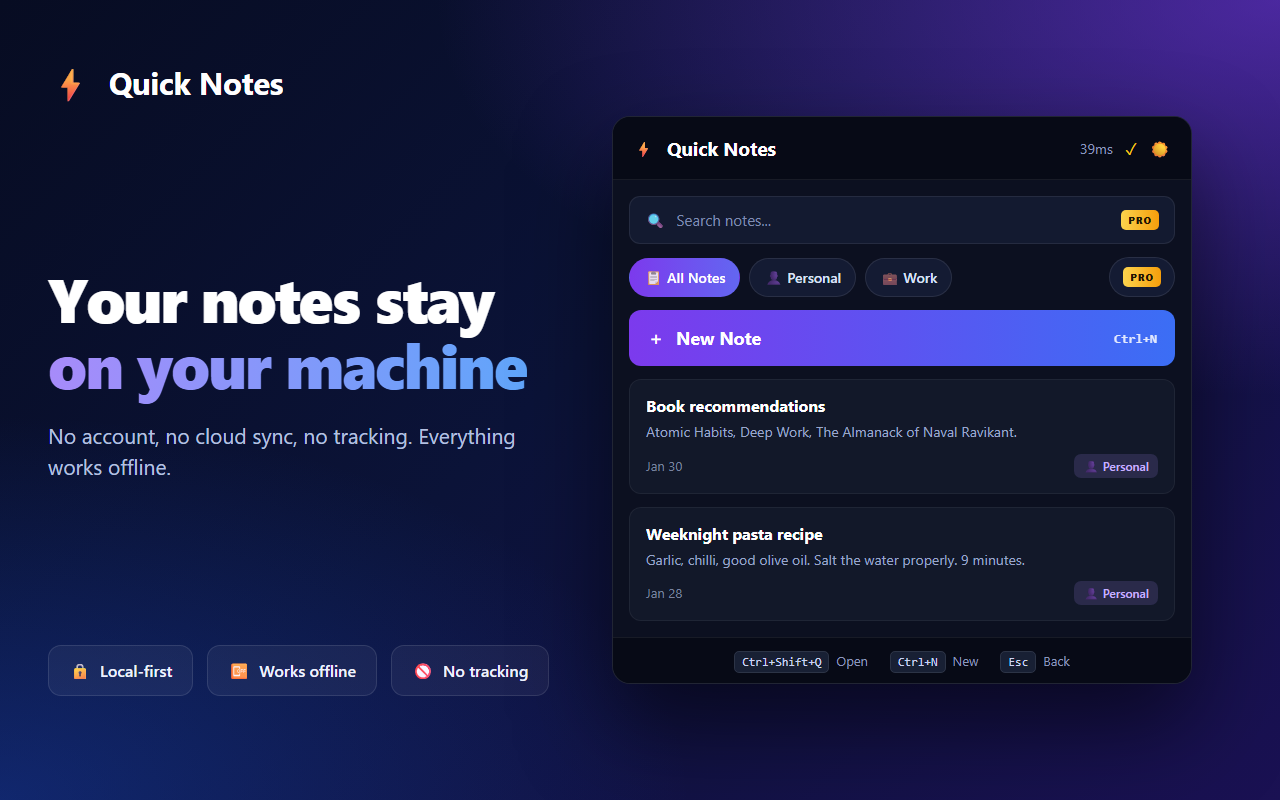
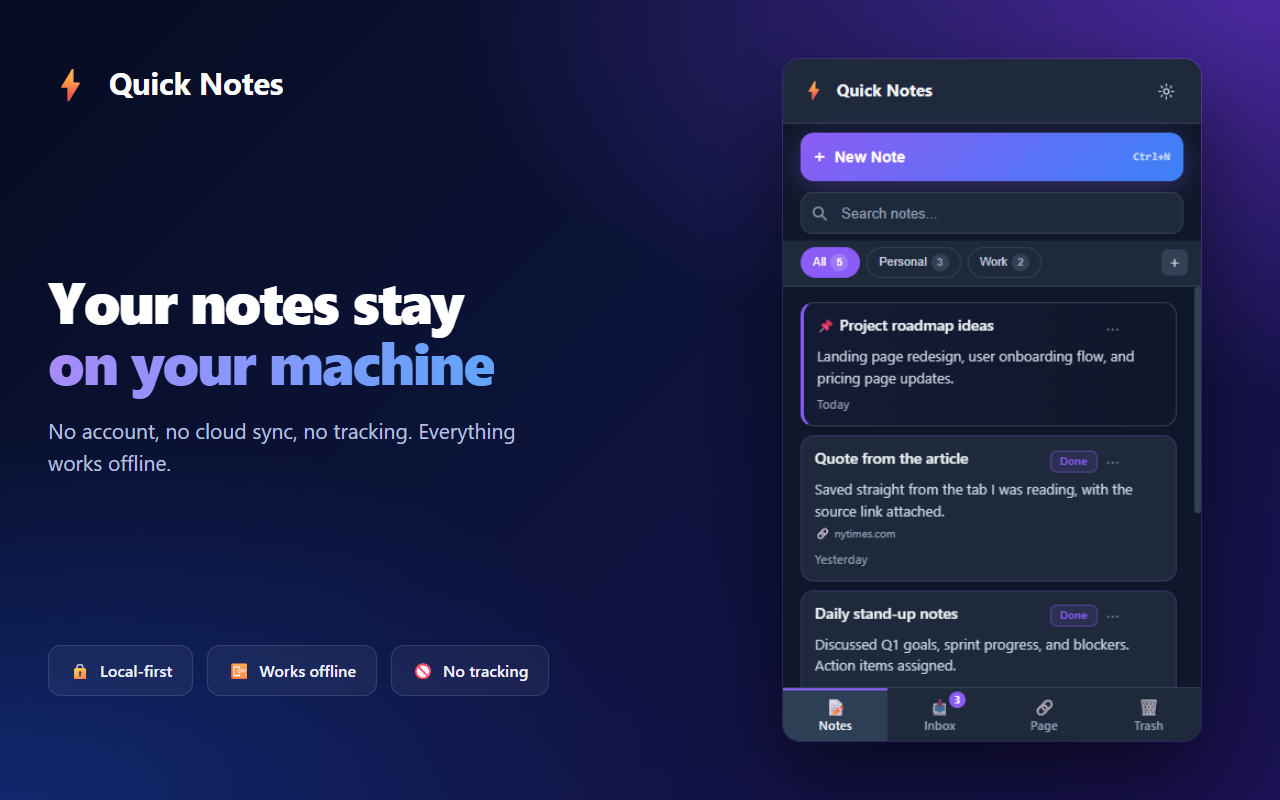
fix(landing): show the current interface, tab bar included
The five images on the landing page and the OpenGraph card were the previous
generated set, taken before the tab bar existed. Anyone arriving from a shared
link saw an interface the extension no longer has.

Replaced with the captures of the running 1.8.0 popup, so the site and the store
listings now show the same product from the same source. The caption says the
shots are captured rather than "real extension screens", which was a claim the
old HTML redraws could not honestly make.

Changed region(s): [[0.4688, 0.0625, 0.9375, 0.9375], [0.0312, 0.3438, 0.4062, 0.5], [0.0312, 0.5312, 0.4062, 0.5938]]

diff --git a/landing/components/Screenshots.tsx b/landing/components/Screenshots.tsx
@@ -20,8 +20,8 @@ export function Screenshots() {
             See Quick Notes in action
           </h2>
           <p className="mt-4 text-slate-300">
-            Real extension screens: quick capture, search, folders, and local-only
-            storage. Pro features are marked as Pro.
+            Captured from the running extension: quick capture, search, the tab bar,
+            and folders. Pro features are marked as Pro.
           </p>
         </div>
 

diff --git a/docs/QA_CHECKLIST.md b/docs/QA_CHECKLIST.md
@@ -111,6 +111,23 @@ Covers popup load, create/search/folders, review queue, archive/restore, reminde
 
 ---
 
+## Bottom tab bar (1.8.0)
+
+The tabs are driven by state the E2E suite already covers, so these check the
+parts that only appear in a real popup.
+
+| Test | Expected |
+|------|----------|
+| Tab bar sits at the bottom of the popup | Not floating mid-window; the popup sizes to its content |
+| Notes / Inbox / Page / Trash all switch the list | Selected tab is highlighted, others are not |
+| Badges show real counts | Inbox = unreviewed notes, Trash = deleted notes, Page = notes for the current site |
+| **Page tab with a live tab open** | Opened from the toolbar on a site you have notes for, the Page tab lists them. This is the one the suite cannot reach — a directly opened popup has no activeTab context |
+| Opening a note hides the tab bar | Editor owns the popup; Back restores the bar and the Notes tab |
+| Keyboard shortcuts still work | The footer that listed them is gone: `/`, `Ctrl+N` and `Esc` must still function, and are documented in Settings |
+| Settings shows "Rate Quick Notes" | Present, and opens the right store for the browser you are in |
+
+---
+
 ## Manual-only tests
 
 These cannot be faithfully automated with Playwright opening `popup.html` directly. Mark **Pass / Fail** manually before release.
